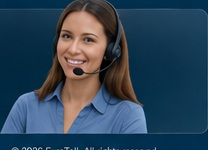
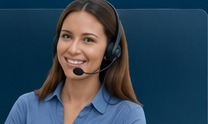
Fix broken hero/desktop layout and remove baked-in duplicate text from images

diff --git a/assets/site.css b/assets/site.css
@@ -1,13 +1,1 @@
 :root{--nav:#07395c;--blue:#0b78bd;--yellow:#ffd431;--bg:#eaf3f8;--ink:#082c49;--line:#d1e0e9}*{box-sizing:border-box}html{scroll-behavior:smooth}body{margin:0;background:var(--bg);color:var(--ink);font-family:Inter,Arial,sans-serif}.nav{height:64px;background:#07395c;display:flex;align-items:center;padding:0 26px;color:#fff;position:sticky;top:0;z-index:100}.brand{display:flex;align-items:center;color:#fff;text-decoration:none;font-weight:900;font-size:22px;line-height:18px;min-width:175px}.brand img{width:37px;height:37px;margin-right:7px}.brand small{display:block;font-size:8px;font-weight:500;color:#9ec5d9}.nav nav{display:flex;gap:31px;flex:1;margin-left:10px}.nav nav a{color:#fff;text-decoration:none;font-size:12px;font-weight:700}.navRight{display:flex;gap:10px;align-items:center}.navRight button{background:#ffffff18;border:1px solid #ffffff22;color:#fff;border-radius:12px;padding:9px 12px}.navRight .round{border-radius:50%;width:32px;height:32px;padding:0}.orders{background:var(--yellow);color:#15364b;padding:10px 18px;border-radius:9px;text-decoration:none;font-size:11px;font-weight:900}.hero{height:415px;position:relative;overflow:hidden}.heroImg{position:absolute;width:100%;height:100%;object-fit:cover;object-position:center top}.heroShade{position:absolute;inset:0;background:linear-gradient(90deg,#001e2da8 0%,#001e2d55 38%,transparent 75%),linear-gradient(0deg,#003f5d44,transparent)}.heroText{position:absolute;left:4.7%;top:31px;color:#fff}.heroText h1{font-size:43px;line-height:1.04;margin:0 0 10px;letter-spacing:-1.5px}.heroText p{font-size:16px;line-height:1.4;margin:0}.heroBenefits{margin-top:17px}.heroBenefits>div{display:flex;gap:9px;margin:8px 0}.heroBenefits img{width:35px;height:35px;object-fit:contain}.heroBenefits span{font-size:10px;line-height:1.25}.heroBenefits b{display:block;font-size:12px}.tripCard{position:absolute;left:21.4%;top:155px;width:225px;background:#07395cdd;border:1px solid #79a7ba4a;border-radius:10px;padding:13px;color:#fff;box-shadow:0 12px 28px #001b2b66}.tripCard h3{margin:0 0 9px;font-size:14px}.tripCard label{display:block;font-size:9px;margin:7px 0}.tripCard select,.tripCard input{width:100%;height:34px;border:1px solid #6d93a4;background:#0b4765;color:#fff;border-radius:7px;padding:0 9px;margin-top:4px}.tripCard button{width:100%;height:34px;border:0;background:var(--yellow);border-radius:7px;margin-top:7px;font-weight:900}.tripCard button b{float:right}.popular{position:absolute;right:2.2%;top:8px;width:267px;background:#073c5be8;color:#fff;border:1px solid #ffffff24;border-radius:11px;padding:13px}.popular h3{font-size:14px;margin:0 0 8px}.pop{display:grid;grid-template-columns:37px 1fr auto;align-items:center;border-bottom:1px solid #ffffff1c;padding:7px 0}.pop i{font-style:normal;font-size:22px}.pop span{font-size:11px}.pop small{display:block;font-size:8px;color:#bdd4df}.pop strong{font-size:12px}.popular>a{color:#fff;text-decoration:none;font-size:9px;display:block;margin-top:9px}.trustbar{max-width:1475px;margin:-12px auto 10px;background:#07395c;color:#fff;border:1px solid #44748b;border-radius:11px;min-height:58px;padding:9px 14px;display:flex;align-items:center;gap:22px;position:relative;z-index:3}.trustbar>div{display:flex;align-items:center;gap:7px;border-right:1px solid #ffffff33;padding-right:20px;flex:1}.trustbar img{width:30px;height:30px;object-fit:contain}.trustbar b{font-size:10px;white-space:nowrap}.trustbar small{display:block;color:#9fc1d0;font-weight:400;font-size:8px;line-height:1.25}.trustbar .secure{background:#278050;border:1px solid #6bc493;border-radius:8px;padding:7px 10px;font-size:9px}.cards{border:0!important;white-space:nowrap;font-size:9px}.columns{max-width:1475px;margin:auto;display:grid;grid-template-columns:1.18fr 1.12fr .74fr;gap:16px}.panel{background:#fff;border:1px solid var(--line);border-radius:12px;padding:15px}.panel h2{font-size:17px;margin:0 0 11px}.steps{display:grid;grid-template-columns:repeat(4,1fr);gap:8px}.steps article{border:1px solid var(--line);border-radius:7px;overflow:hidden;background:#f4f9fc}.steps img{width:100%;height:115px;object-fit:cover}.steps em{display:grid;place-items:center;background:#2c6d99;color:#fff;border-radius:50%;width:17px;height:17px;font-size:9px;font-style:normal;margin:-4px 6px 3px;position:relative}.steps b,.steps p{display:block;margin:3px 7px}.steps b{font-size:9px}.steps p{font-size:8px;color:#4f6a7b;line-height:1.35;padding-bottom:5px}.why{overflow:hidden}.whybody{display:grid;grid-template-columns:1fr 1.22fr;gap:7px}.reasons p{display:flex;gap:7px;font-size:9px;color:#1e8d56;margin:10px 0}.reasons span{color:var(--ink)}.reasons b{display:block;font-size:10px}.whybody img{width:100%;height:258px;object-fit:cover;border-radius:8px}.updates h2{display:flex;justify-content:space-between}.updates h2 a{font-size:8px;color:#1478b4}.updates article{display:grid;grid-template-columns:80px 1fr;gap:8px;border-bottom:1px solid var(--line);padding:7px 0}.updates article:last-child{border:0}.updates article img{width:80px;height:64px;object-fit:cover;border-radius:7px}.updates article b{font-size:9px}.updates small{display:block;color:#738b9b;font-size:7px;margin:2px 0}.updates p{font-size:8px;color:#4f6a7b;margin:0;line-height:1.3}.route{max-width:1475px;margin:10px auto 0;background:#073f5c;color:#fff;display:flex;min-height:99px;overflow:hidden;padding:0}.route>div{padding:12px 17px;flex:1}.route h2{font-size:16px;margin:0}.route p{font-size:9px;color:#b5cfda;margin:4px 0 8px}.route button{background:var(--yellow);border:0;border-radius:6px;padding:7px 13px;font-size:9px;font-weight:900}.route>img{width:51%;object-fit:cover}.vehicles{max-width:1475px;margin:9px auto}.vehicles h2{font-size:16px;margin:0 0 8px}.vehicleRow{display:grid;grid-template-columns:repeat(6,1fr);gap:9px}.vehicleRow article{height:92px;background:#fff;border:1px solid var(--line);border-radius:7px;position:relative;overflow:hidden;padding:8px}.vehicleRow small{display:block;font-size:9px}.vehicleRow b{font-size:8px}.vehicleRow img{position:absolute;right:0;bottom:0;width:80%;height:75px;object-fit:cover;object-position:center bottom;mix-blend-mode:multiply}.help{max-width:1475px;margin:9px auto 24px;background:#0a4866;color:#fff;display:flex;justify-content:space-between;min-height:118px;padding:15px 22px;overflow:hidden}.help h2{font-size:26px;margin:0}.help p{font-size:10px;color:#b9d1dc}.help button{background:var(--yellow);border:0;border-radius:6px;padding:9px 15px;font-weight:900;font-size:9px}.help img{height:150px;width:300px;object-fit:cover;object-position:center top;margin-top:-15px}footer{background:#07395c;color:#a6c4d2;padding:18px 30px;display:flex;justify-content:space-between;font-size:8px}footer b{color:#fff;font-size:14px}.drawer{position:fixed;z-index:200;right:18px;top:82px;width:440px;max-height:82vh;overflow:auto;background:#fff;border:1px solid var(--line);border-radius:14px;padding:20px;box-shadow:0 25px 70px #062d4560}.drawer .x{position:absolute;right:12px;top:8px;border:0;background:none;font-size:26px}.saleBadge{display:inline-block;background:#277f51;color:#fff;border-radius:99px;padding:5px 8px;font-size:9px;font-weight:900}.drawer h2{font-size:21px;margin:12px 0 3px}.sub{font-size:10px;color:#607989}.drawerList article{display:grid;grid-template-columns:1fr auto auto;gap:8px;align-items:center;border:1px solid var(--line);border-radius:9px;padding:10px;margin:7px 0}.drawerList small{display:block;color:#6e8493;font-size:9px;margin-top:3px}.drawerList .price{text-align:right}.drawerList del{display:block;color:#94a3ad;font-size:8px}.drawerList strong{display:block;font-size:12px}.drawerList button,.continue{border:0;background:#0b78bd;color:#fff;border-radius:6px;padding:8px 10px;font-weight:900;font-size:9px}.drawerList .disabled{opacity:.55}.routeOnly{font-size:8px;color:#55717f}.drawer form label{display:block;font-size:9px;margin:11px 0}.drawer input,.drawer select{width:100%;height:38px;margin-top:4px;border:1px solid var(--line);border-radius:7px;padding:0 9px}.vehicleNotice{background:#edf7f1;border:1px solid #b8dfc7;padding:9px;border-radius:8px;font-size:9px;line-height:1.6;margin:12px 0}.continue{width:100%;height:40px}.review{min-height:100vh;display:grid;place-items:center;padding:30px}.reviewBox{background:#fff;border:1px solid var(--line);border-radius:18px;box-shadow:0 20px 60px #09375218;max-width:620px;width:100%;padding:32px}.brand.dark{color:var(--ink)}.reviewKicker{font-size:9px;font-weight:900;letter-spacing:.12em;color:#0b78bd;margin-top:35px}.reviewBox h1{font-size:34px;line-height:1.05}.reviewRows p,.discountLine,.total{display:flex;justify-content:space-between;border-bottom:1px solid var(--line);padding:10px 0;font-size:11px}.reviewRows b{color:var(--ink)}.discountLine{border:0;color:#637987}.discountLine b{color:#278050}.total{font-size:18px;border-top:1px solid var(--line);margin-top:8px}.payBtn{display:block;text-align:center;background:#0b78bd;color:#fff;text-decoration:none;padding:14px;border-radius:8px;font-weight:900;margin-top:16px}.note{font-size:9px;color:#6b808e;line-height:1.5}@media(max-width:1000px){.nav nav{gap:12px}.columns{grid-template-columns:1fr 1fr;margin:0 10px}.updates{grid-column:1/3}.trustbar{flex-wrap:wrap;margin:0 10px}.heroText{left:3%}.popular{right:1%}.vehicleRow{grid-template-columns:repeat(3,1fr)}.route,.vehicles,.help{margin-left:10px;margin-right:10px}}@media(max-width:700px){.nav{padding:0 10px}.nav nav{display:none}.orders,.round{display:none!important}.hero{height:610px}.heroText h1{font-size:34px}.heroText{top:22px}.tripCard{left:18px;top:310px;width:225px}.popular{display:none}.trustbar{gap:8px}.trustbar>div{min-width:45%;border:0}.columns{grid-template-columns:1fr}.updates{grid-column:auto}.steps{grid-template-columns:1fr 1fr}.whybody{grid-template-columns:1fr}.whybody img{height:220px}.vehicleRow{grid-template-columns:1fr 1fr}.route>img{display:none}.help img{width:180px}.drawer{left:8px;right:8px;width:auto}.reviewBox{padding:22px}footer{flex-direction:column;gap:8px}}
-
-/* Exact-reference desktop hero mode */
-@media(min-width:1001px){
- .hero{height:415px;background-image:url('images/reference-full.jpg');background-size:cover;background-position:center top}
- .heroImg,.heroShade,.heroText,.tripCard,.popular{display:none}
-}
-.heroHotspot{display:none;position:absolute;border:0;background:transparent;z-index:8;cursor:pointer}
-@media(min-width:1001px){
- .heroHotspot{display:block}
- .tripHotspot{left:21.4%;top:155px;width:225px;height:225px}
- .popularHotspot{right:2.2%;top:8px;width:267px;height:375px}
-}

diff --git a/assets/app.js b/assets/app.js
@@ -8,5 +8,3 @@ function formFor(id){const drawer=document.querySelector('.drawer');drawer.inner
 document.querySelector('#show').addEventListener('click',products);
 function routeInfo(){alert('Route-based tolls need origin, destination, axle/weight and operator-specific tariff data. Connect an authorised route-tariff API before enabling payment for these products.')}
 document.querySelector('#language').onclick=()=>alert('Languages: English, German, French, Italian, Spanish, Portuguese, Dutch, Polish, Czech, Slovak, Hungarian, Slovenian, Croatian. Automatic browser detection can be connected to the translation dictionary.');
-document.querySelector('.tripHotspot')?.addEventListener('click',()=>document.querySelector('#buy')?.scrollIntoView({behavior:'smooth'}));
-document.querySelector('.popularHotspot')?.addEventListener('click',()=>products());
